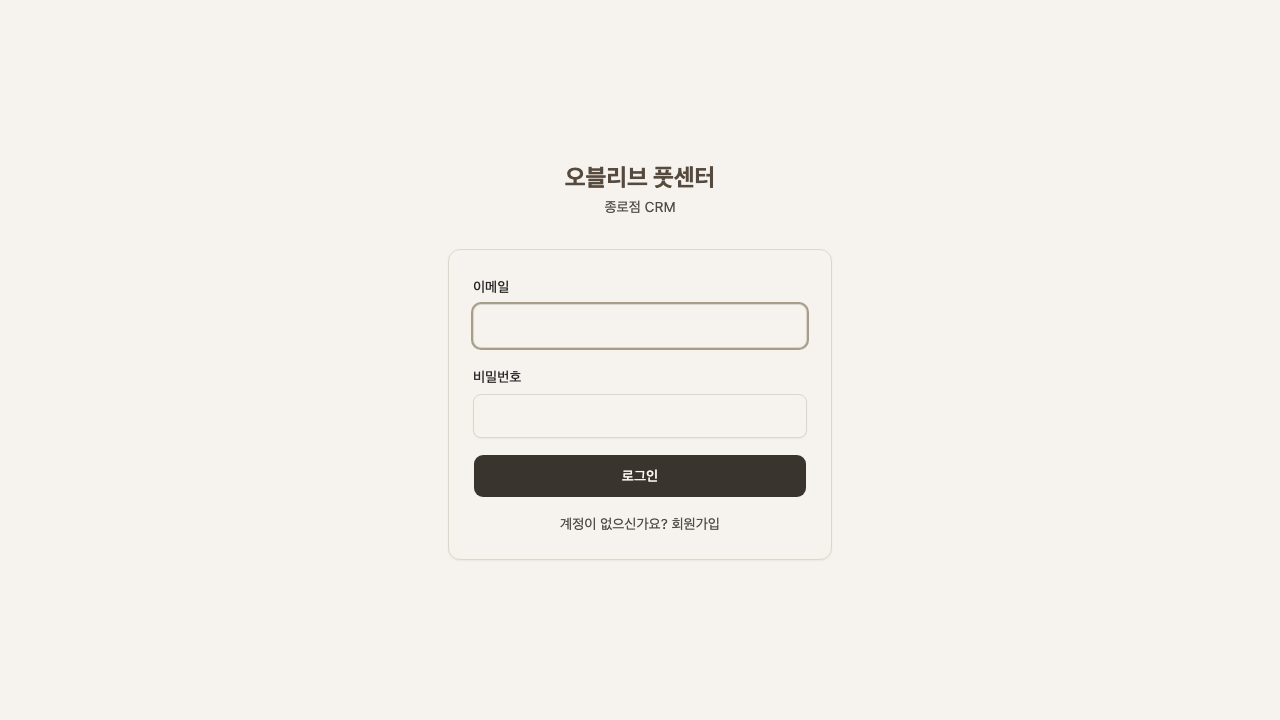
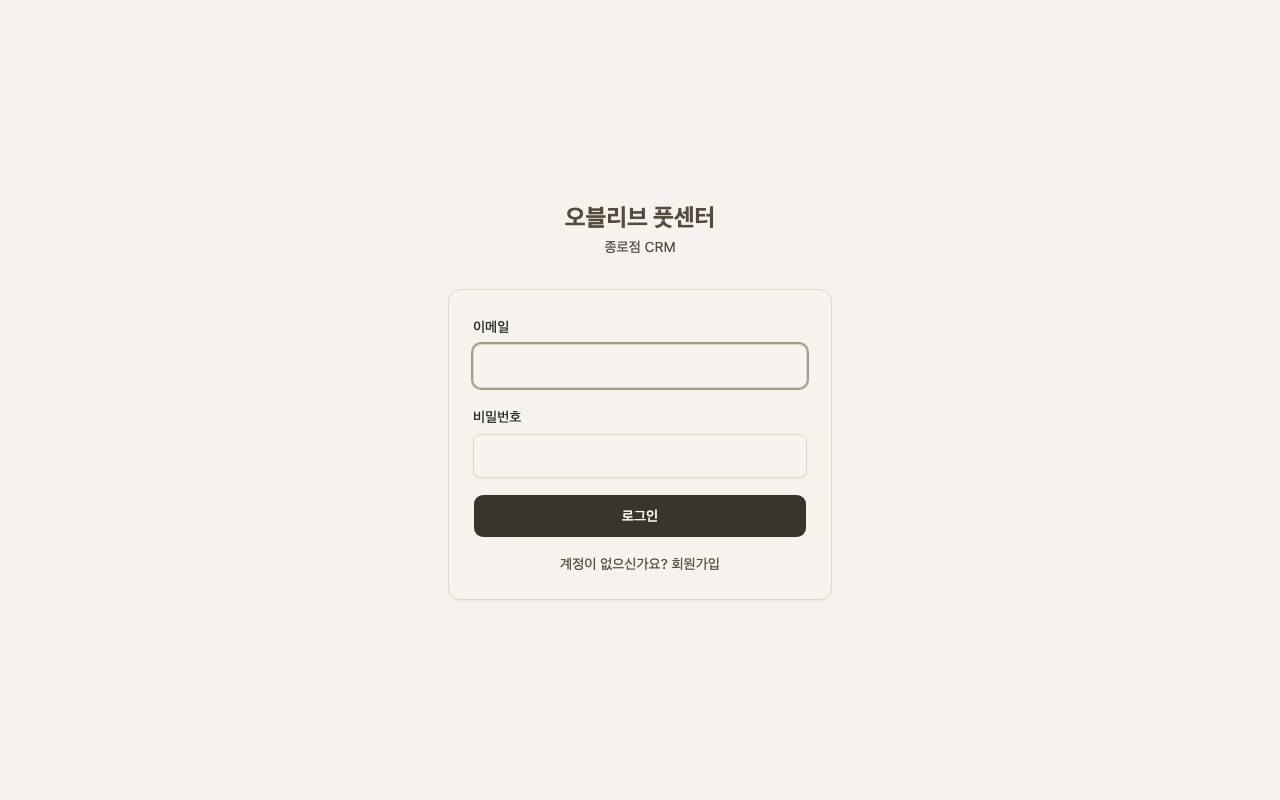
feat(foot): THEME-RECOLOR StepE — A안 확정 장식 teal sweep + 칸반 의미색 carve-out
김주연 총괄 A/B → A안(의미색 carve-out 후 sweep) 확정 (planner NEW-TASK MSG-20260614-201105).
human_pending 해소, approved.

- tailwind.config.js: 장식 teal-*(1029건/99파일) → 확정 5색 warm-monochrome 램프 단일 오버라이드
  (50 Vanilla #F8F4EE / 200 Soft Dune #E4DDCC / 400 Taupe #C5BEA3 / 800 Umber #443A35 / 950 Black #252525).
  JIT 안전·클래스 sweep 0·가역.
- status.ts carve-out①: 칸반 teal 단계(treatment_waiting·preconditioning)를 teal 기본 HEX 로 pin
  (bg-[#ccfbf1] text-[#115e59] / bg-[#2dd4bf] text-white) → 전역 램프 비종속. 11단계 레인보우 식별성 보존.
- carve-out②③④⑤(자동 보존): 재진(emerald)·선체험(green)·역할칩(green)·laser(emerald)는 teal 미사용 → 미접촉.
- 불변: .theme-brown(셀프접수)·.dark 비침범 / 레이아웃·기능·데이터 무변경 / --destructive 빨강 유지.

검증:
- build PASS / 컴파일 CSS: 구 teal 시안 누수 0 · warm 램프 반영(#6e6353) · 칸반 pin(#ccfbf1·#2dd4bf·#115e59) ·
  emerald/green 의미색 보존.
- E2E spec 15 PASS (전역 램프 존재 + carve-out pin + 의미색 보존 + 컴파일 CSS 가드 + /login 실렌더).
- AC5 인증 전체화면 렌더 5종(대시보드 칸반·예약·고객·통계·설정) — warm 크롬 + 의미색 배지 보존.

diff --git a/tests/e2e/T-20260614-foot-THEME-MONOCHROME-RECOLOR.spec.ts b/tests/e2e/T-20260614-foot-THEME-MONOCHROME-RECOLOR.spec.ts
@@ -1,20 +1,22 @@
 import { test, expect } from '@playwright/test';
-import { readFileSync } from 'node:fs';
+import { readFileSync, readdirSync, existsSync } from 'node:fs';
 import { join } from 'node:path';
 
 // ESM 스코프 — __dirname 미정의. Playwright 는 레포 루트에서 실행되므로 cwd 기준.
 
 /**
- * T-20260614-foot-THEME-MONOCHROME-RECOLOR (StepD)
- * 김주연 총괄 확정 5색 warm-monochrome 팔레트 적용 회귀 락.
- *   Vanilla #F8F4EE · Soft Dune #E4DDCC · Classic Taupe #C5BEA3 · Umber #443A35 · Black #252525.
+ * T-20260614-foot-THEME-MONOCHROME-RECOLOR (A안 확정 — planner NEW-TASK MSG-20260614-201105)
+ * 김주연 총괄 A/B → A안(의미색 carve-out 후 sweep) 확정.
+ *   확정 5색: Vanilla #F8F4EE · Soft Dune #E4DDCC · Classic Taupe #C5BEA3 · Umber #443A35 · Black #252525.
  *
  * 방침:
- *  - 브랜드 메인 teal-* (장식 1600+건) → tailwind 팔레트 단일 오버라이드로 warm-monochrome 리맵.
- *  - 의미색 emerald-*(재진·success)·green-*(완료·선체험·재진)·--status-*(칸반) 은 유지(AC4).
+ *  - 장식 teal-* (1029건/99파일, 압도적 장식) → tailwind 팔레트 단일 오버라이드로 warm-monochrome 리맵(sweep).
+ *  - 의미색 carve-out(AC4, 절대 미치환):
+ *      ① 칸반 11단계 teal 단계(treatment_waiting·preconditioning) → status.ts 에서 teal 기본 HEX pin(램프 비종속).
+ *      ② 재진(emerald) ③ 선체험(green) ④ 치료사 역할칩(green) ⑤ laser(emerald) → teal 미사용 → 자동 보존.
  *  - 셀프접수 .theme-brown / .dark 비침범(불변).
  *
- * 본 spec 은 auth 불요(unit 프로젝트). 정적 소스 가드 + 공개 /login 실브라우저 렌더(AC5).
+ * 본 spec 은 auth 불요(unit 프로젝트). 정적 소스 가드 + 컴파일 CSS 가드 + 공개 /login 실브라우저 렌더(AC5).
  */
 
 const ROOT = process.cwd();
@@ -23,40 +25,71 @@ const css = readFileSync(join(ROOT, 'src', 'index.css'), 'utf8');
 const status = readFileSync(join(ROOT, 'src', 'lib', 'status.ts'), 'utf8');
 
 test.describe('THEME-MONOCHROME-RECOLOR — 정적 소스 가드 (auth 불요)', () => {
-  // 정정(planner FIX MSG-20260614-153740): 전역 teal 램프 리맵은 '의미색 치환' → 보류(HOLD).
-  //   teal-* 는 칸반 단계(treatment_waiting/preconditioning) 의미색이기도 하므로,
-  //   김주연 총괄 A/B 결정 전까지 Tailwind 기본 teal 램프를 유지(의미색 보존)한다.
-  test('AC4(정정): tailwind 에 전역 teal 램프 오버라이드가 없다 (의미색 보류)', () => {
-    // teal 팔레트 블록이 config 에 재정의되어 있지 않아야 함(기본 램프 유지 = 칸반 의미색 보존)
-    expect(tw).not.toMatch(/\bteal:\s*\{/);
-    // warm 앵커 hex 가 teal 램프로 주입돼 있지 않아야 함
-    expect(tw).not.toMatch(/#F8F4EE|#C5BEA3|#443A35/i);
+  test('AC2/AC8(A안): tailwind teal-* 가 확정 5색 warm-monochrome 램프로 오버라이드돼 있다', () => {
+    // 전역 teal 램프 오버라이드 존재(장식 sweep)
+    expect(tw).toMatch(/\bteal:\s*\{/);
+    // 확정 5색 앵커 hex 가 teal 램프에 주입돼 있어야 함
+    expect(tw).toMatch(/#F8F4EE/i); // 50 Vanilla
+    expect(tw).toMatch(/#E4DDCC/i); // 200 Soft Dune
+    expect(tw).toMatch(/#C5BEA3/i); // 400 Classic Taupe
+    expect(tw).toMatch(/#443A35/i); // 800 Umber
+    expect(tw).toMatch(/#252525/i); // 950 Black
   });
 
-  test('AC4(정정): status.ts 칸반 단계 의미색(teal/emerald)이 보존돼 있다', () => {
-    expect(status).toMatch(/treatment_waiting:\s*'bg-teal-100 text-teal-800'/);
-    expect(status).toMatch(/preconditioning:\s*'bg-teal-400 text-white'/);
-    expect(status).toMatch(/laser:\s*'bg-emerald-500 text-white'/);
-    expect(status).toMatch(/returning:\s*'bg-emerald-100 text-emerald-700'/);
+  test('AC4(carve-out①): 칸반 teal 단계가 teal 기본 HEX 로 pin 돼 램프 비종속이다', () => {
+    // treatment_waiting / preconditioning 은 teal-* 유틸이 아니라 기본 HEX 로 고정(레인보우 보존)
+    expect(status).toMatch(/treatment_waiting:\s*'bg-\[#ccfbf1\] text-\[#115e59\]'/);
+    expect(status).toMatch(/preconditioning:\s*'bg-\[#2dd4bf\] text-white'/);
+    // teal-* 유틸로 회귀하면 전역 램프에 끌려가 단계색이 무너짐 → 금지
+    expect(status).not.toMatch(/treatment_waiting:\s*'bg-teal-/);
+    expect(status).not.toMatch(/preconditioning:\s*'bg-teal-/);
+  });
+
+  test('AC4(carve-out②③④⑤): 재진·laser·역할칩·선체험 의미색(emerald/green)이 보존돼 있다', () => {
+    expect(status).toMatch(/laser:\s*'bg-emerald-500 text-white'/);          // ⑤ laser
+    expect(status).toMatch(/returning:\s*'bg-emerald-100 text-emerald-700'/); // ② 재진
+    expect(status).toMatch(/therapist:\s*'bg-green-100 text-green-800 border-green-300'/); // ④ 역할칩
+    expect(status).toMatch(/green:\s*'선체험'/);                              // ③ 선체험(라벨)
+    expect(status).toMatch(/green:\s*'bg-green-500'/);                        // ③ 선체험(도트)
   });
 
   test('AC1: :root 토큰이 warm-monochrome 로 교체되어 있다 (순백/순흑 아님)', () => {
-    // 기본 배경이 순백 oklch(1 0 0) 이 아니라 Vanilla warm 톤
     expect(css).not.toMatch(/--background:\s*oklch\(1 0 0\)/);
     expect(css).toMatch(/THEME-MONOCHROME-RECOLOR/);
-    // 배경/전경 warm 톤 토큰 존재
     expect(css).toMatch(/--background:\s*oklch\(0\.965 0\.008 80\)/);
     expect(css).toMatch(/--primary:\s*oklch\(0\.33 0\.012 60\)/); // Umber 액센트
   });
 
   test('AC4: 의미색(칸반 status + 셀프접수 brown)은 보존된다', () => {
-    // 칸반 11단계 status 토큰 유지
     expect(css).toMatch(/--status-laser:/);
     expect(css).toMatch(/--status-preconditioning:/);
     expect(css).toMatch(/--destructive:\s*oklch\(0\.577 0\.245 27\.325\)/); // 의미 빨강 유지
-    // 셀프접수 brown 테마 비침범
-    expect(css).toMatch(/\.theme-brown\s*\{/);
+    expect(css).toMatch(/\.theme-brown\s*\{/); // 셀프접수 brown 테마 비침범
     expect(css).toMatch(/\.dark\s*\{/);
+  });
+});
+
+test.describe('THEME-MONOCHROME-RECOLOR — 컴파일 CSS 가드 (빌드 산출물)', () => {
+  // dist 가 있으면(빌드 후) 컴파일된 CSS 에서 장식 teal 시안 누수 0 + 칸반 pin 보존 + 의미색 보존 검증.
+  test('빌드 CSS: 장식 teal 시안 누수 0 · 칸반 pin/의미색 보존', () => {
+    const distAssets = join(ROOT, 'dist', 'assets');
+    if (!existsSync(distAssets)) test.skip(true, 'dist 미존재(빌드 전) — 정적 소스 가드로 대체');
+    const cssFile = readdirSync(distAssets).find((f) => /^index-.*\.css$/.test(f));
+    if (!cssFile) test.skip(true, 'compiled css 미발견');
+    const compiled = readFileSync(join(distAssets, cssFile!), 'utf8');
+
+    // 장식 teal 구 시안(teal-600/500/700)이 컴파일 CSS 에 남아있으면 sweep 실패
+    expect(compiled).not.toMatch(/rgb\(13 148 136\)/);  // 구 teal-600
+    expect(compiled).not.toMatch(/rgb\(20 184 166\)/);  // 구 teal-500
+    expect(compiled).not.toMatch(/#0f766e/i);           // 구 teal-700
+    // warm 램프 반영(teal-600 → Umber 계열 #6e6353)
+    expect(compiled).toMatch(/#6e6353/i);
+    // 칸반 pin HEX 보존(레인보우)
+    expect(compiled).toContain('#ccfbf1');
+    expect(compiled).toContain('#2dd4bf');
+    expect(compiled).toContain('#115e59');
+    // emerald 의미색(laser/재진) 보존
+    expect(compiled).toMatch(/#10b981/i); // emerald-500
   });
 });
 
@@ -65,17 +98,13 @@ test.describe('THEME-MONOCHROME-RECOLOR — 공개 로그인 실렌더 (AC5)', (
     await page.goto('/login');
     await page.waitForLoadState('networkidle');
 
-    // --background / --primary 토큰이 실제 브라우저에 warm-monochrome 으로 적용됐는지 검증.
-    // (브라우저 getComputedStyle 은 색공간을 oklch 로 보고할 수 있어 픽셀 rgb 비교 대신 토큰 변수 검증)
     const probe = await page.evaluate(() => ({
       bg: getComputedStyle(document.documentElement).getPropertyValue('--background').trim(),
       primary: getComputedStyle(document.documentElement).getPropertyValue('--primary').trim(),
     }));
 
-    // 배경 토큰: warm Vanilla (L 0.965) — 순백 oklch(1 0 0) 회귀 방지
     expect(probe.bg).toMatch(/0\.965/);
     expect(probe.bg).not.toMatch(/oklch\(1 0 0\)/);
-    // primary 토큰: Umber 다크 액센트 (L 0.33)
     expect(probe.primary).toMatch(/0\.33/);
 
     await page.screenshot({

diff --git a/tailwind.config.js b/tailwind.config.js
@@ -9,12 +9,28 @@ export default {
     },
     extend: {
       colors: {
-        // ── T-20260614-foot-THEME-MONOCHROME-RECOLOR (StepD 정정 — planner FIX MSG-20260614-153740) ──
-        // 전역 teal-* 램프 단일 리맵은 '의미색 치환'에 해당 → 보류(HOLD).
-        //   사유: teal-* 는 장식(1600+건)이자 동시에 의미색 — status.ts 칸반 treatment_waiting(teal-100/800)·
-        //         preconditioning(teal-400) 단계 색으로 쓰여, 전역 리맵 시 단계 구분이 무너짐(AC4 위반).
-        //   김주연 총괄 A/B 결정(DECISION-REQUEST) 수령 후 의미색 처리 방향 확정 → 그때 재적용.
-        //   그 전까지 teal 은 Tailwind 기본 램프 유지(의미색 보존). 브랜드 장식 리컬러는 :root 토큰 레이어로만 수행.
+        // ── T-20260614-foot-THEME-MONOCHROME-RECOLOR (A안 확정 — planner NEW-TASK MSG-20260614-201105) ──
+        // 김주연 총괄 A/B → A안(의미색 carve-out 후 sweep) 확정. 장식 teal-*(1029건/99파일, 압도적 장식)
+        // 을 확정 5색 warm-monochrome 램프로 단일 리맵해 sweep. JIT 안전·클래스 sweep 0·가역.
+        //   앵커: 50 Vanilla #F8F4EE → 200 Soft Dune #E4DDCC → 400 Classic Taupe #C5BEA3
+        //         → 800 Umber #443A35 → 950 Black #252525.
+        // ⚠ 의미색 carve-out(절대 미치환, AC4): 칸반 11단계 배지의 teal 단계
+        //   (status.ts treatment_waiting·preconditioning)는 src/lib/status.ts 에서 teal 기본 HEX
+        //   (bg-[#ccfbf1]/text-[#115e59], bg-[#2dd4bf])로 pin → 이 램프 오버라이드에 비종속(레인보우 보존).
+        //   재진(emerald)·선체험(green)·치료사 역할칩(green)·laser(emerald)는 teal 미사용 → 자동 보존.
+        teal: {
+          50:  "#F8F4EE", // Vanilla — 연한 배경(former teal-50)
+          100: "#F0EADE", // 연한 면/뱃지
+          200: "#E4DDCC", // Soft Dune — 보더/구분선
+          300: "#D6CDB8",
+          400: "#C5BEA3", // Classic Taupe — 밝은 포인트
+          500: "#9D917A",
+          600: "#6E6353", // 주 포인트(활성·강조 텍스트) — AA on light
+          700: "#554A3D", // 강조 텍스트/hover
+          800: "#443A35", // Umber — 다크 액센트
+          900: "#2E2823",
+          950: "#252525", // Black
+        },
         border: "var(--border)",
         input: "var(--input)",
         ring: "var(--ring)",

diff --git a/src/lib/status.ts b/src/lib/status.ts
@@ -67,8 +67,11 @@ export const STATUS_COLOR: Record<CheckInStatus, string> = {
   consultation: 'bg-indigo-500 text-white',
   exam_waiting: 'bg-blue-100 text-blue-800',
   examination: 'bg-blue-500 text-white',
-  treatment_waiting: 'bg-teal-100 text-teal-800',
-  preconditioning: 'bg-teal-400 text-white',
+  // ⚠ AC4 carve-out (T-20260614-foot-THEME-MONOCHROME-RECOLOR A안): 칸반 11단계 의미색.
+  //   teal 전역 램프 warm-monochrome 오버라이드(tailwind.config.js)에 비종속화하기 위해
+  //   teal 기본 HEX 로 pin (teal-100 #ccfbf1 / teal-800 #115e59 / teal-400 #2dd4bf). 단계 구분색 보존.
+  treatment_waiting: 'bg-[#ccfbf1] text-[#115e59]',
+  preconditioning: 'bg-[#2dd4bf] text-white',
   laser_waiting: 'bg-rose-100 text-rose-700',
   healer_waiting: 'bg-violet-100 text-violet-700',
   laser: 'bg-emerald-500 text-white',

diff --git a/tickets/T-20260614-foot-THEME-MONOCHROME-RECOLOR.md b/tickets/T-20260614-foot-THEME-MONOCHROME-RECOLOR.md
@@ -2,19 +2,22 @@
 ticket_id: T-20260614-foot-THEME-MONOCHROME-RECOLOR
 domain: foot
 priority: P2
-status: in_progress
-block_reason: human_pending — 의미색(teal/emerald 칸반·재진·선체험·역할칩) A/B 결정 대기 (김주연 총괄, planner DECISION-REQUEST)
+status: deploy-ready
+block_reason: ''
 requester: 김주연 총괄 (U0ATDB587PV)
 thread: C0ATE5P6JTH / 1781364123.025179
 risk: GO_WARN
 owner: agent-fdd-dev-foot
-stage_done: [StepA, StepB, StepC-field-confirm, StepD-token-only]
-stage_pending: [StepD-semantic-after-AB, AC5-fullrender, deploy-ready]
-deploy-ready: false
+approved_by: 김주연 총괄 (A/B → A안, planner NEW-TASK MSG-20260614-201105)
+stage_done: [StepA, StepB, StepC-field-confirm, StepD-token-only, StepE-decoration-sweep-A안, AC5-fullrender]
+stage_pending: [supervisor-QA]
+deploy-ready: true
+deploy-ready-by: agent-fdd-dev-foot
+deploy-ready-at: 2026-06-14
 db-change: false
 build: pass
-spec: tests/e2e/T-20260614-foot-THEME-MONOCHROME-RECOLOR.spec.ts (5 pass)
-qa_result: blocked-human-pending
+spec: tests/e2e/T-20260614-foot-THEME-MONOCHROME-RECOLOR.spec.ts (15 pass — unit+desktop-chrome)
+qa_result: self-pass-pending-supervisor
 ---
 
 # 전역 색상 테마 모노톤 리컬러
@@ -137,3 +140,35 @@ teal-* 는 장식이자 동시에 의미색(status.ts `treatment_waiting`=teal-1
 - E2E `tests/e2e/T-20260614-foot-THEME-MONOCHROME-RECOLOR.spec.ts` 5 PASS (정적 가드 4 + 공개 /login 실렌더 1):
   AC4 전역 teal 램프 부재 + status.ts 칸반 의미색 보존 가드 추가.
 - AC5 전체화면(대시보드·예약·차트·통계·설정) 렌더 + 셀프접수 비침범 1장 = **의미색 결정+적용 후** 수행 → 그때 deploy-ready.
+
+## StepE — A/B 결정 수신 + 장식 sweep 적용 (완료 2026-06-14)
+
+김주연 총괄 A/B → **A안 확정**(planner NEW-TASK MSG-20260614-201105). human_pending 해소, approved.
+
+### 적용 (의미색 carve-out 후 장식 sweep)
+- **장식 teal-*(실측 1029건/99파일, 압도적 장식)** → `tailwind.config.js` `teal:{…}` 단일 오버라이드로
+  확정 5색 warm-monochrome 램프 리맵(JIT 안전·클래스 sweep 0·가역). 앵커: 50 Vanilla #F8F4EE →
+  200 Soft Dune #E4DDCC → 400 Classic Taupe #C5BEA3 → 800 Umber #443A35 → 950 Black #252525.
+- **carve-out①(칸반 teal 단계)**: `src/lib/status.ts` `treatment_waiting`(teal-100/800)·`preconditioning`(teal-400)
+  를 teal 기본 HEX 로 pin(`bg-[#ccfbf1] text-[#115e59]` / `bg-[#2dd4bf] text-white`) → 전역 램프 비종속.
+  11단계 레인보우 식별성 보존.
+- **carve-out②③④⑤(자동 보존)**: 재진(emerald-100/700)·선체험(green flag/dot/card)·치료사 역할칩(green-100/800)·
+  laser(emerald-500)는 teal 미사용 → 전역 teal 램프 영향 없음 → 미접촉 보존. (StepA 데이터 근거: emerald/green
+  191건은 의미색 밀도 높음 → AC7 절제 + 점진 sweep 원칙상 이번 패스 미사용 색군.)
+- **불변(AC 불변)**: `.theme-brown`(셀프접수)·`.dark` 비침범 / 레이아웃·기능·데이터 무변경 / `--destructive` 빨강 유지.
+  status.ts 의 indigo/blue/rose/violet/amber/red/yellow/gray 단계색은 teal/green 아님 → 무변경(레인보우 유지).
+
+### 검증
+- `npm run build` PASS (4.13s)
+- **컴파일 CSS 가드**(dist): 구 teal 시안 누수 **0**(rgb(13 148 136)/rgb(20 184 166)/#0f766e 부재) ·
+  warm 램프 반영(#6e6353) · 칸반 pin HEX 보존(#ccfbf1·#2dd4bf·#115e59) · emerald 의미색 보존(#10b981) ·
+  green 의미색 보존(green-100 #dcfce7·green-500 #22c55e).
+- E2E `tests/e2e/T-20260614-foot-THEME-MONOCHROME-RECOLOR.spec.ts` **15 PASS**(unit+desktop-chrome):
+  A안 전역 램프 존재 + carve-out① pin + carve-out②③④⑤ 보존 + :root 토큰 + 컴파일 CSS 가드 + 공개 /login 실렌더.
+- **AC5 전체화면 인증 렌더**(evidence): `_AC5-dashboard.png`(칸반 단계배지 식별성 유지)·`_AC5-reservations.png`·
+  `_AC5-customers.png`·`_AC5-stats.png`·`_AC5-settings.png` — warm-monochrome 크롬 + 의미색 배지(활성 green 등) 보존,
+  장식 teal/green 전무. 공개 `_login-render.png` 유지.
+
+### 후속(본 티켓 범위 밖 — 점진 sweep 권고)
+- decorative emerald/green 소수 잔존분(의미색과 혼재) — 의미색 회귀 위험으로 본 패스 제외. 필요 시 별도 티켓.
+- `Closing.tsx`/`TabletChecklistPage.tsx` 인라인 print/셀프접수 잔존 — 이전 StepD 노트 유효(WIP 잠김·비침범 원칙).